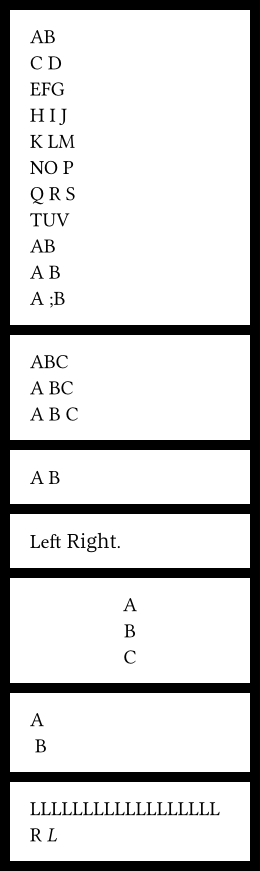
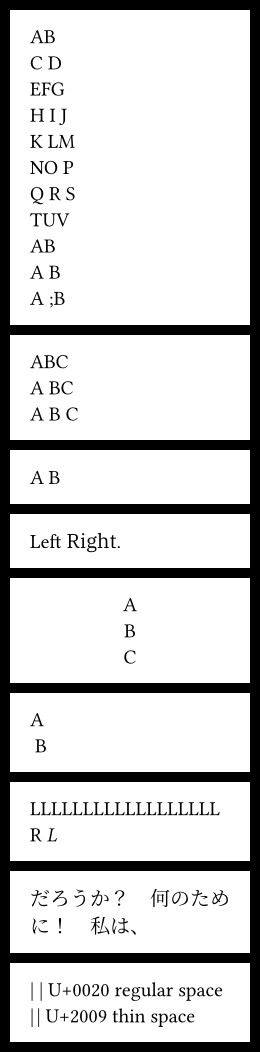
Do not parse special spaces to Space Token (#3267)

Changed region(s): [[0.0308, 0.0, 0.9538, 0.992]]

diff --git a/crates/typst-syntax/src/lexer.rs b/crates/typst-syntax/src/lexer.rs
@@ -90,7 +90,7 @@ impl Lexer<'_> {
         self.error = None;
         let start = self.s.cursor();
         match self.s.eat() {
-            Some(c) if c.is_whitespace() => self.whitespace(start, c),
+            Some(c) if is_space(c, self.mode) => self.whitespace(start, c),
             Some('/') if self.s.eat_if('/') => self.line_comment(),
             Some('/') if self.s.eat_if('*') => self.block_comment(),
             Some('*') if self.s.eat_if('/') => {
@@ -108,7 +108,7 @@ impl Lexer<'_> {
     }
 
     fn whitespace(&mut self, start: usize, c: char) -> SyntaxKind {
-        let more = self.s.eat_while(char::is_whitespace);
+        let more = self.s.eat_while(|c| is_space(c, self.mode));
         let newlines = match c {
             ' ' if more.is_empty() => 0,
             _ => count_newlines(self.s.from(start)),
@@ -626,6 +626,15 @@ fn keyword(ident: &str) -> Option<SyntaxKind> {
         "as" => SyntaxKind::As,
         _ => return None,
     })
+}
+
+/// Whether a character will become a Space token in Typst
+#[inline]
+fn is_space(character: char, mode: LexMode) -> bool {
+    match mode {
+        LexMode::Markup => matches!(character, ' ' | '\t') || is_newline(character),
+        _ => character.is_whitespace(),
+    }
 }
 
 /// Whether a character is interpreted as a newline by Typst.